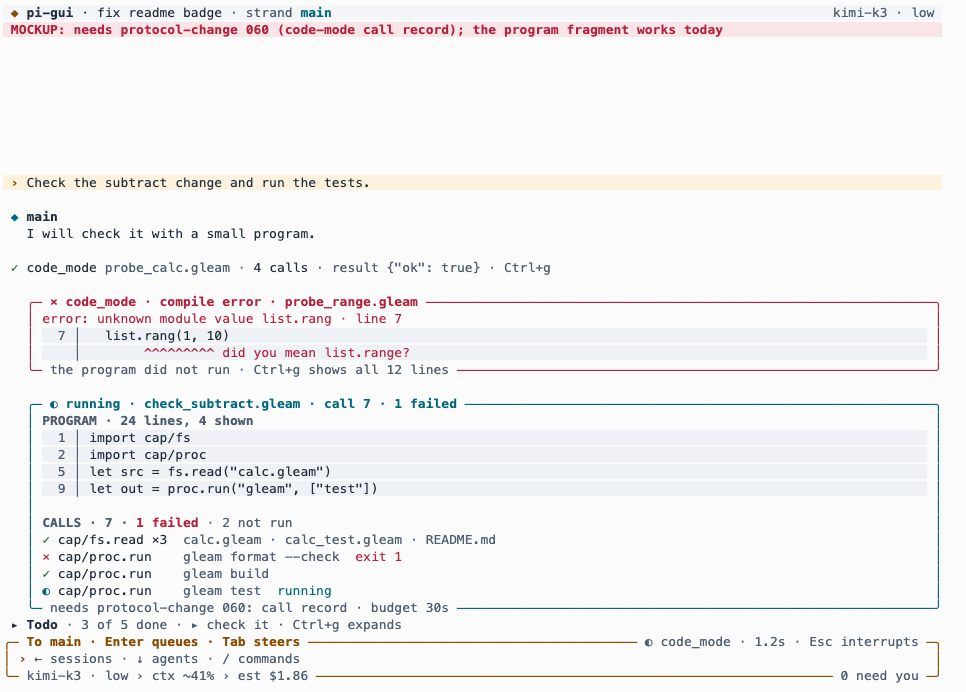
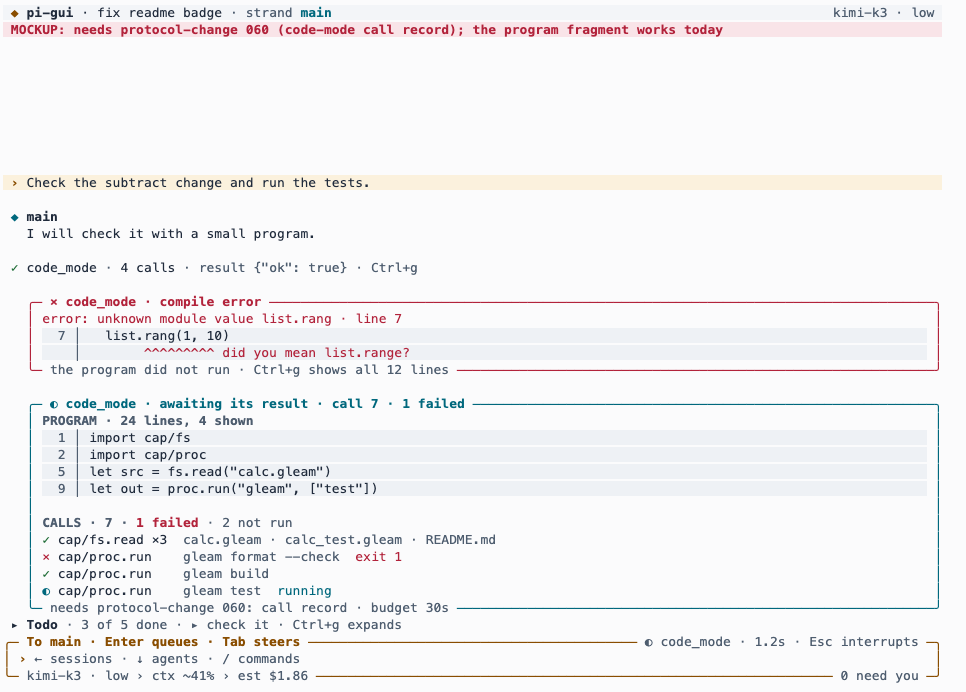
docs: drop the invented program names from code mode
In this commit, we take the file names and the word vetted out of the code-mode frames and say why: a program has no name, vetting is known only once a result says so, and a running program's elapsed time is on the input frame's top rule rather than on its block. The four code-mode grids and their pictures are regenerated.

diff --git a/docs/design-notes/terminal-design/terminal-design-gen.py b/docs/design-notes/terminal-design/terminal-design-gen.py
@@ -437,14 +437,14 @@ def codemode_body(calls):
         R += assistant(W, ["I will check it with a small program."])
         R.append(blank(W))
         if calls:
-            R.append(G(W, [("✓ ", "add b"), ("code_mode", "p"), (" probe_calc.gleam · ", "q"), ("4 calls", "p"), (" · result {\"ok\": true} · Ctrl+g", "q")]))
+            R.append(G(W, [("✓ ", "add b"), ("code_mode", "p"), (" · ", "q"), ("4 calls", "p"), (" · result {\"ok\": true} · Ctrl+g", "q")]))
         else:
-            R.append(G(W, [("✓ ", "add b"), ("code_mode", "p"), (" probe_calc.gleam · completed · result {\"ok\": true} · Ctrl+g", "q")]))
+            R.append(G(W, [("✓ ", "add b"), ("code_mode", "p"), (" · completed · result {\"ok\": true} · Ctrl+g", "q")]))
         R.append(blank(W))
         err = [row(iw, [("error: unknown module value list.rang · line 7", "dan")], ""),
                row(iw, [("  7 │ ", "q"), ("  list.rang(1, 10)", "p")], "cb"),
                row(iw, [("    │ ", "q"), ("       ^^^^^^^^^ did you mean list.range?", "dan")], "cb")]
-        R += titled(W, "× code_mode · compile error · probe_range.gleam", "dan b", "dan", err,
+        R += titled(W, "× code_mode · compile error", "dan b", "dan", err,
                     "the program did not run · Ctrl+g shows all 12 lines", indent=3)
         R.append(blank(W))
         inner = prog_rows(iw - 2 if False else iw - 2)
@@ -456,12 +456,12 @@ def codemode_body(calls):
                                            ("✓", "add", "cap/proc.run", "gleam build", ""),
                                            ("◐", "cur", "cap/proc.run", "gleam test", "running")]:
                 inner.append(row(iw, [(g + " ", gc), (name.ljust(16), "p"), (arg, "q"), ("  " + note if note else "", "dan" if note == "exit 1" else "cur")]))
-            title = "◐ running · check_subtract.gleam · call 7 · 1 failed"
+            title = "◐ code_mode · awaiting its result · call 7 · 1 failed"
             foot = "needs protocol-change 060: call record · budget 30s"
         else:
             inner.append(row(iw, [("RESULT · none yet · the result arrives when the program ends", "q")]))
-            title = "◐ running · check_subtract.gleam · 1.2s"
-            foot = "budget 30s · vetted · Ctrl+g program"
+            title = "◐ code_mode · awaiting its result"
+            foot = "budget 30s · Ctrl+g program"
         R += titled(W, title, "cur b", "cur", inner, foot, indent=3)
         return R
     return f

diff --git a/docs/design-notes/terminal-design.md b/docs/design-notes/terminal-design.md
@@ -319,7 +319,10 @@ nothing per capability call, so there are two frames.
 in the danger colour with the error and the line it names. A running program is
 a titled block with a numbered fragment of the program, the first lines, and a
 `RESULT · none yet` row that fills when the program ends. The foot gives the
-budget. At 80 columns the fragment shrinks. The program text is
+budget. The block names no file and claims no vetting, since a program has no
+name and vetting is known only once a result says so; the program's elapsed
+time is on the input frame's top rule (`◐ code_mode · 1.2s`), which the
+activity already drives, rather than on the block, whose rows are cached. At 80 columns the fragment shrinks. The program text is
 `transcript_lines.code_mode_program`
 (`packages/session_view/src/session_view/transcript_lines.gleam:2371`)
 (`code_mode_program`) and the result is drawn by `code_mode_result_lines`
